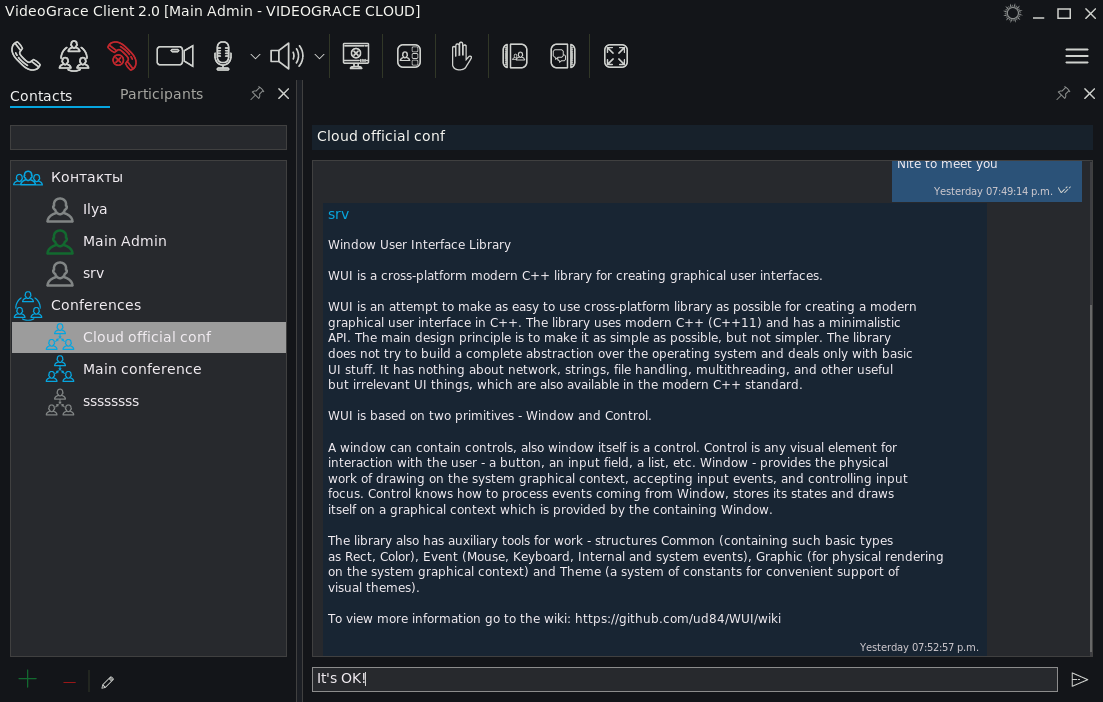
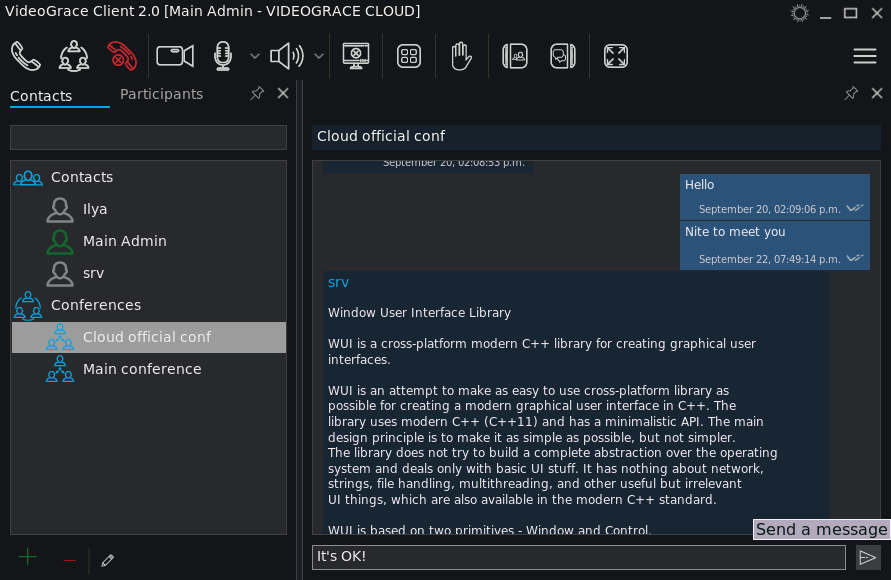
Upd

diff --git a/main/index.html b/main/index.html
@@ -29,11 +29,11 @@
 
 <!-- Creates the bootstrap modal where the image will appear -->
 <div class="modal fade" id="imagemodal" tabindex="-1" role="dialog" aria-labelledby="myModalLabel" aria-hidden="true">
-    <div class="modal-dialog" style="height: 702px;">
-        <div class="modal-content" style="width: 1153px; background-color: #979597;">
+    <div class="modal-dialog" style="height: 680px;">
+        <div class="modal-content" style="width: 990px; background-color: #979597;">
             <div class="modal-body">
                 <button type="button" class="close" data-dismiss="modal"><span aria-hidden="true">&times;</span><span class="sr-only">Close</span></button>
-                 <img src="" class="imagepreview" style="width: 100%;" >
+                 <img src="" class="imagepreview">
             </div>
         </div>
     </div>
